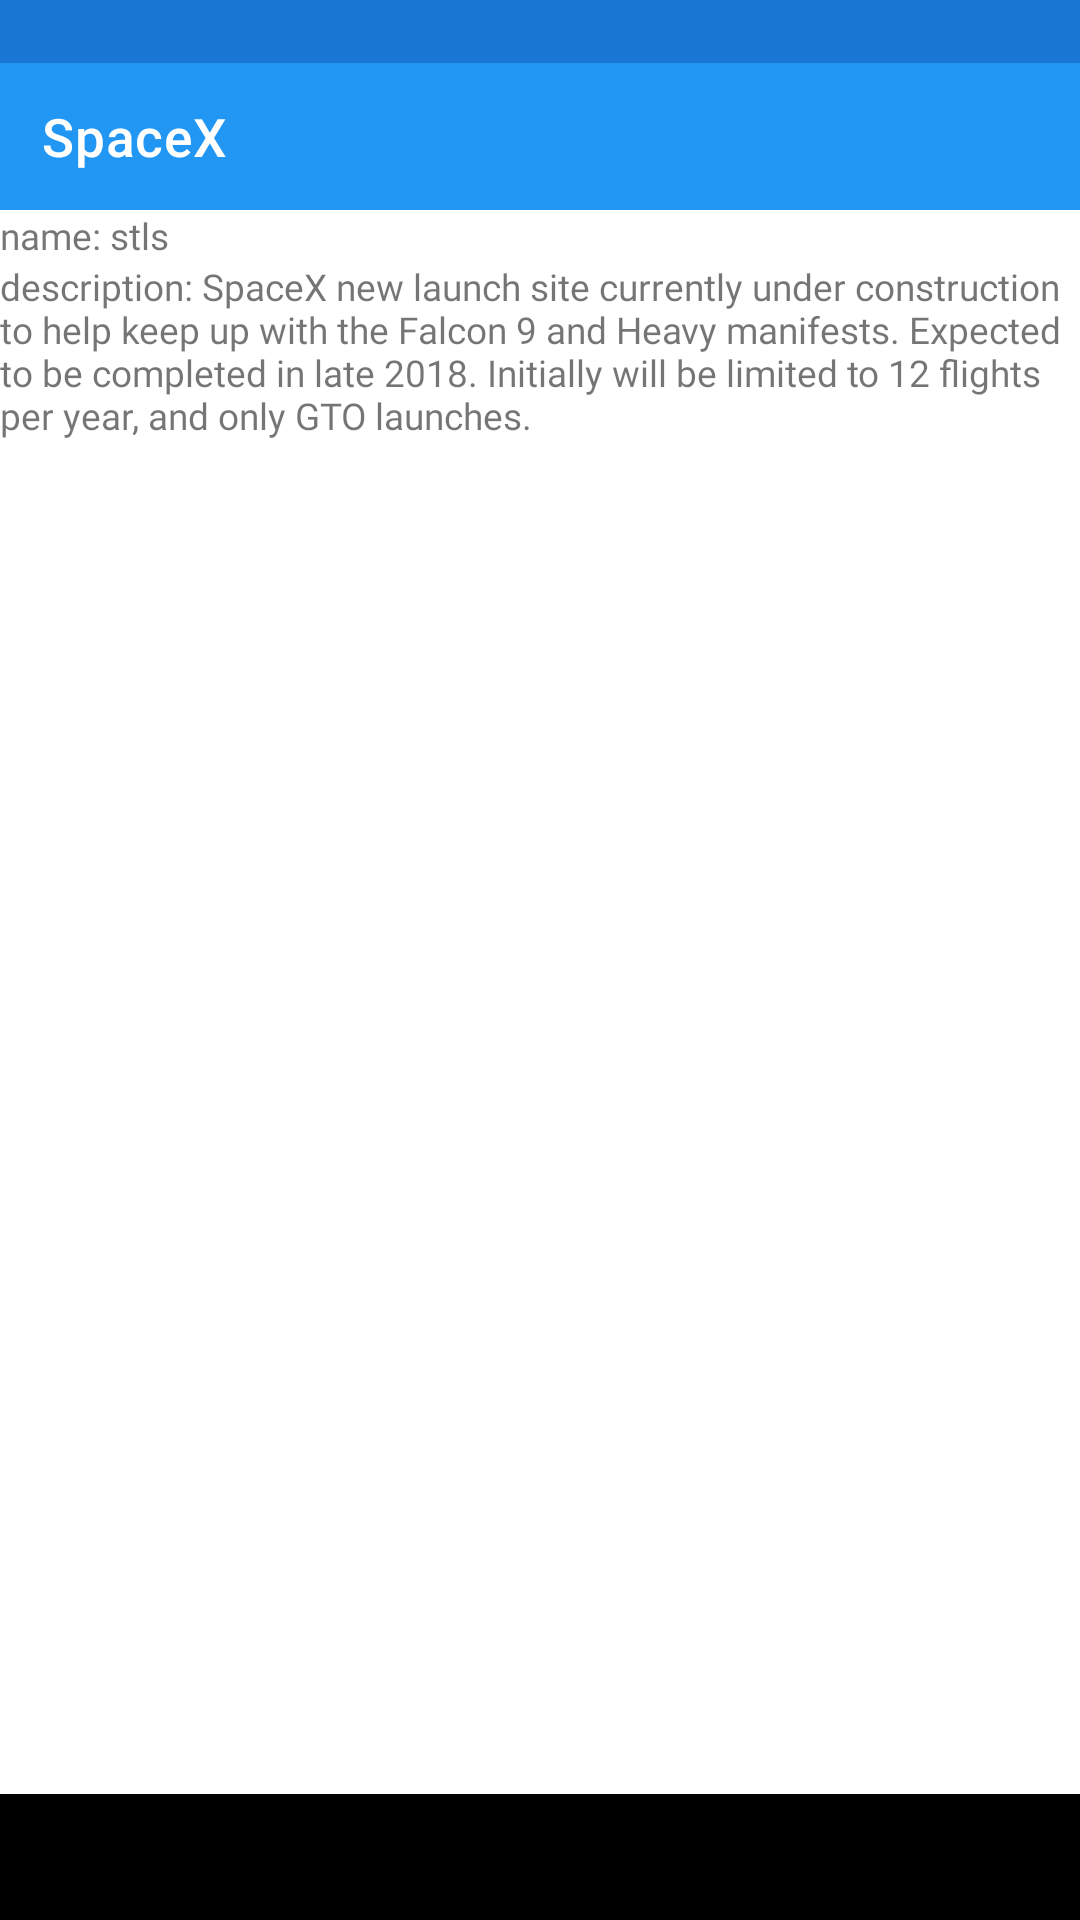
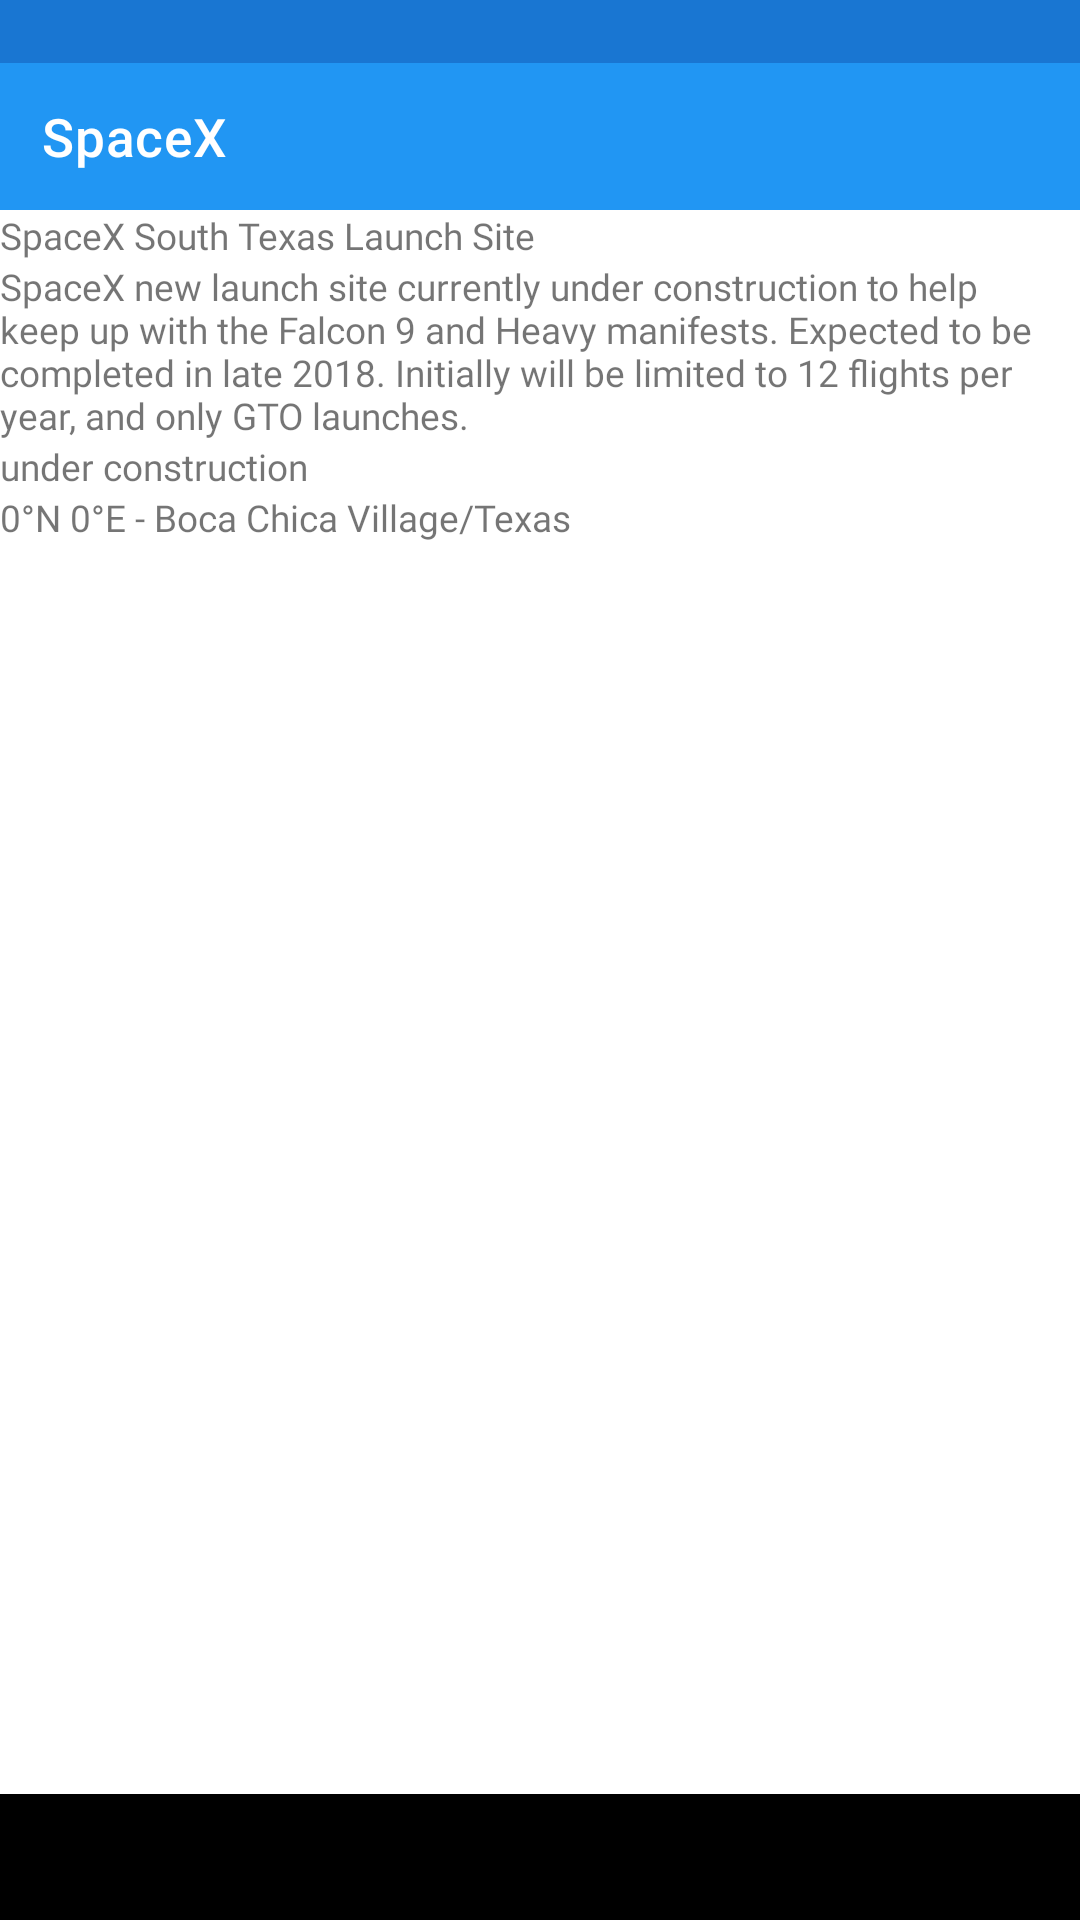
Display more launchpad details

Changed region(s): [[0.0, 0.0938, 0.9778, 0.2812]]

diff --git a/app/src/main/java/pl/lgawin/demo/spacex/ui/details/LaunchpadDetailsViewModel.kt b/app/src/main/java/pl/lgawin/demo/spacex/ui/details/LaunchpadDetailsViewModel.kt
@@ -3,18 +3,30 @@ package pl.lgawin.demo.spacex.ui.details
 import androidx.lifecycle.ViewModel
 import androidx.lifecycle.liveData
 import pl.lgawin.demo.spacex.domain.GetLaunchpadDetailsUseCase
+import pl.lgawin.demo.spacex.domain.LaunchpadDetailsModel
+import pl.lgawin.demo.spacex.domain.LaunchpadLocationModel
 
 class LaunchpadDetailsViewModel(
     private val launchpadId: String,
     private val getLaunchpadDetailsUseCase: GetLaunchpadDetailsUseCase,
 ) : ViewModel() {
 
-    val name = liveData {
-        emit("name: $launchpadId")
+    val details = liveData {
+        emit(LaunchpadDetailsUiModel("name: $launchpadId"))
+        val details = getLaunchpadDetailsUseCase(launchpadId)
+        emit(details.mapToUiModel())
     }
 
-    val description = liveData {
-        val details = getLaunchpadDetailsUseCase(launchpadId)
-        emit("description: ${details.description}")
-    }
+    private fun formatLocation(location: LaunchpadLocationModel) =
+        """0°N 0°E - ${location.description}"""
+
+    private fun LaunchpadDetailsModel.mapToUiModel() =
+        LaunchpadDetailsUiModel(name, description, status, formatLocation(location))
+
+    data class LaunchpadDetailsUiModel(
+        val name: String,
+        val description: String? = null,
+        val status: String? = null,
+        val location: String? = null,
+    )
 }

diff --git a/app/src/androidTest/java/pl/lgawin/demo/spacex/ui/details/LaunchpadDetailsFragmentTest.kt b/app/src/androidTest/java/pl/lgawin/demo/spacex/ui/details/LaunchpadDetailsFragmentTest.kt
@@ -49,10 +49,10 @@ class LaunchpadDetailsFragmentTest : ScreenshotTest, KoinTest {
     fun launch() {
         val launchpadDetails = LaunchpadDetailsModel(
             "some-id",
-            "name",
+            "Launchpad name",
             "Launchpad description",
-            "",
-            LaunchpadLocationModel(0.0, 0.0, "")
+            "under construction",
+            LaunchpadLocationModel(28.5618571, -80.577366, "Cape Canaveral/Florida")
         )
         val fragment = launchFragmentInContainer<LaunchpadDetailsFragment>(
             themeResId = R.style.Theme_SpaceX,
@@ -62,7 +62,10 @@ class LaunchpadDetailsFragmentTest : ScreenshotTest, KoinTest {
         compareScreenshot(fragment)
         // TODO check that view is loading data
         detailsFlow.tryEmit(launchpadDetails)
-        assertDisplayed("description: Launchpad description")
+        assertDisplayed("Launchpad name")
+        assertDisplayed("Launchpad description")
+        assertDisplayed("under construction")
+//        assertDisplayed("""28°33'42.7"N 80°34'38.5"W - Cape Canaveral/Florida""")
         compareScreenshot(fragment, name = "data_loaded")
     }
 }

diff --git a/app/src/main/java/pl/lgawin/demo/spacex/ui/details/LaunchpadDetailsFragment.kt b/app/src/main/java/pl/lgawin/demo/spacex/ui/details/LaunchpadDetailsFragment.kt
@@ -30,11 +30,11 @@ class LaunchpadDetailsFragment : Fragment(R.layout.fragment_launchpad_details) {
 
     override fun onViewCreated(view: View, savedInstanceState: Bundle?) {
         super.onViewCreated(view, savedInstanceState)
-        viewModel.name.observe(viewLifecycleOwner) {
-            binding.name.text = it
-        }
-        viewModel.description.observe(viewLifecycleOwner) {
-            binding.details.text = it
+        viewModel.details.observe(viewLifecycleOwner) {
+            binding.name.text = it.name
+            binding.description.text = it.description
+            binding.status.text = it.status
+            binding.location.text = it.location
         }
     }
 
@@ -42,5 +42,4 @@ class LaunchpadDetailsFragment : Fragment(R.layout.fragment_launchpad_details) {
         super.onDestroyView()
         _binding = null
     }
-
 }

diff --git a/app/src/androidTest/java/pl/lgawin/demo/spacex/SmokeTest.kt b/app/src/androidTest/java/pl/lgawin/demo/spacex/SmokeTest.kt
@@ -49,13 +49,13 @@ class SmokeTest : ScreenshotTest, KoinTest {
         assertDisplayed("Launchpad 40")
         compareScreenshot(activity, name = "launchpad_list_scrolled")
         clickListItem(R.id.launchpad_list, 35)
-        assertDisplayed("name: 36")
-        assertDisplayed("description: Launchpad 36 description")
+        assertDisplayed("Launchpad 36")
+        assertDisplayed("Launchpad 36 description")
         compareScreenshot(activity, name = "launchpad_details")
         clickBack()
         clickOn("Launchpad 39")
-        assertDisplayed("name: 39")
-        assertDisplayed("description: Launchpad 39 description")
+        assertDisplayed("Launchpad 39")
+        assertDisplayed("Launchpad 39 description")
         clickBack()
         sleep(2, TimeUnit.SECONDS) // TODO check if back on the list
     }

diff --git a/app/src/androidTest/java/pl/lgawin/demo/spacex/EndToEndTest.kt b/app/src/androidTest/java/pl/lgawin/demo/spacex/EndToEndTest.kt
@@ -40,6 +40,8 @@ class EndToEndTest : ScreenshotTest, KoinTest {
         assertDisplayed("SpaceX South Texas Launch Site")
         compareScreenshot(activity, name = "list")
         clickOn("SpaceX South Texas Launch Site")
+        assertDisplayed("under construction")
+//        assertDisplayed("""25°59'50.2"N 97°09'21.9"W - Boca Chica Village/Texas""")
         sleep(2, TimeUnit.SECONDS) // FIXME - can be flaky...
         compareScreenshot(activity, name = "details")
         clickBack()

diff --git a/app/src/main/java/pl/lgawin/demo/spacex/mock/GetLaunchpadDetailsMock.kt b/app/src/main/java/pl/lgawin/demo/spacex/mock/GetLaunchpadDetailsMock.kt
@@ -14,7 +14,7 @@ private class GetLaunchpadDetails : GetLaunchpadDetailsUseCase {
 
     override suspend fun invoke(id: String) = LaunchpadDetailsModel(
         id,
-        "name",
+        "Launchpad $id",
         "Launchpad $id description",
         "status",
         LaunchpadLocationModel(0.0, 0.0, "some location")
